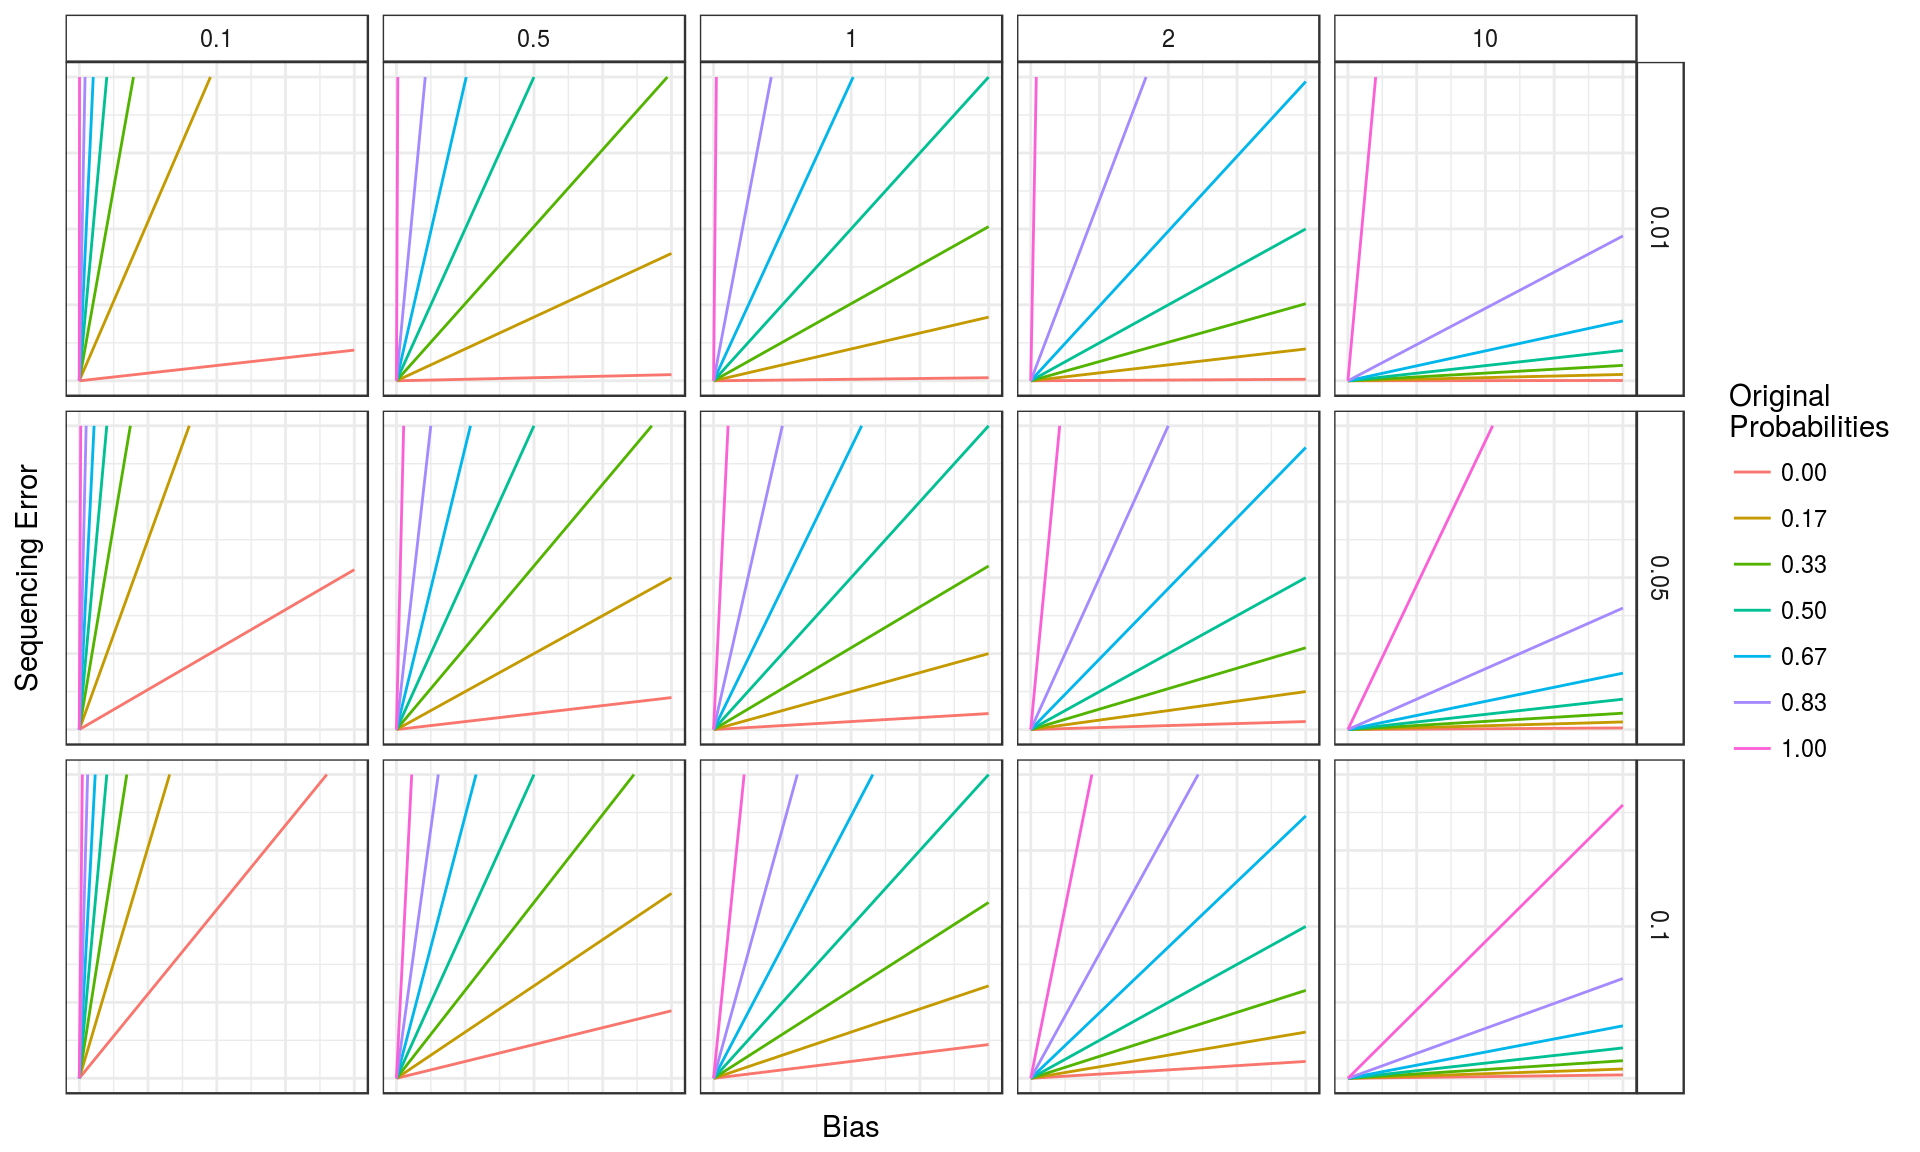
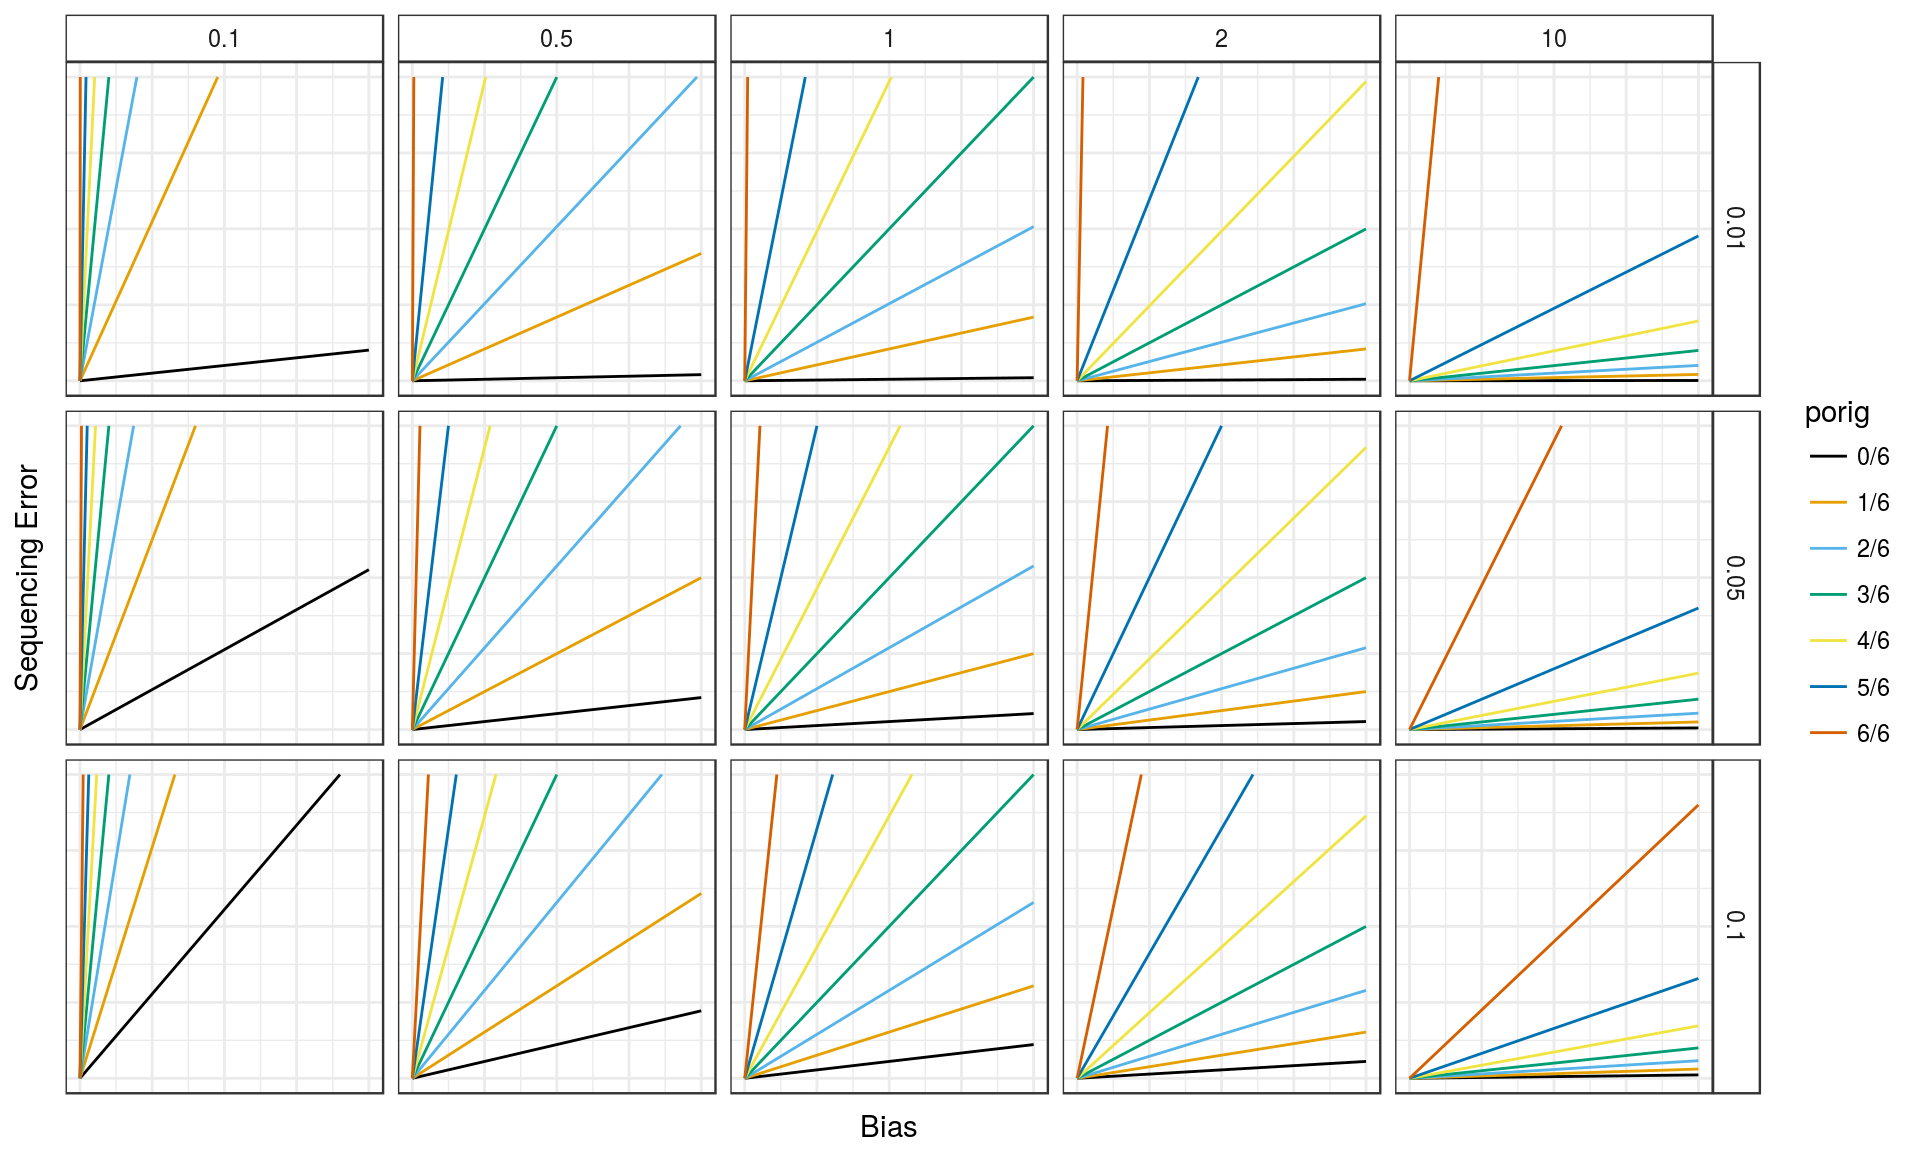
colorblind safe probability lines

diff --git a/docs/prob_lines.html b/docs/prob_lines.html
@@ -329,7 +329,7 @@ div.tocify {
 ploidy &lt;- 6
 bias_vec &lt;- c(0.1, 0.5, 1, 2, 10)
 seq_error_vec &lt;- c(0.01, 0.05, 0.1)
-porig &lt;- as.factor(format(0:ploidy / ploidy, digits = 2))
+porig &lt;- as.factor(paste0(0:ploidy, &quot;/&quot;, ploidy))
 
   for (bindex in 1:length(bias_vec)) {
       bias &lt;- bias_vec[bindex]
@@ -365,8 +365,11 @@ porig &lt;- as.factor(format(0:ploidy / ploidy, digits = 2))
     facet_grid(seq_error ~ bias) +
     xlab(&quot;Bias&quot;) +
     ylab(&quot;Sequencing Error&quot;) +
-    scale_color_discrete(name = &quot;Original\nProbabilities&quot;)
-print(pl)</code></pre>
+    scale_color_discrete(name = &quot;Original\nProbabilities&quot;) +
+    ggthemes::scale_color_colorblind()</code></pre>
+<pre><code>## Scale for &#39;colour&#39; is already present. Adding another scale for
+## &#39;colour&#39;, which will replace the existing scale.</code></pre>
+<pre class="r"><code>print(pl)</code></pre>
 <p><img src="prob_lines_files/figure-html/unnamed-chunk-1-1.png" width="960" /></p>
 <pre class="r"><code>pdf(file = &quot;../output/prob_plots.pdf&quot;, family = &quot;Times&quot;,
     colormodel = &quot;cmyk&quot;, width = 6, height = 3)
@@ -395,17 +398,17 @@ dev.off()</code></pre>
 ## [5] tidyr_0.6.1     tibble_1.2      ggplot2_2.2.1   tidyverse_1.1.1
 ## 
 ## loaded via a namespace (and not attached):
-##  [1] Rcpp_0.12.10     plyr_1.8.4       forcats_0.2.0    tools_3.3.2     
+##  [1] Rcpp_0.12.11     plyr_1.8.4       forcats_0.2.0    tools_3.3.2     
 ##  [5] digest_0.6.12    jsonlite_1.3     lubridate_1.6.0  evaluate_0.10   
 ##  [9] nlme_3.1-131     gtable_0.2.0     lattice_0.20-34  psych_1.6.12    
 ## [13] DBI_0.6          yaml_2.1.14      parallel_3.3.2   haven_1.0.0     
 ## [17] xml2_1.1.1       stringr_1.2.0    httr_1.2.1       knitr_1.15.1    
 ## [21] hms_0.3          rprojroot_1.2    grid_3.3.2       R6_2.2.0        
 ## [25] readxl_0.1.1     foreign_0.8-67   rmarkdown_1.3    modelr_0.1.0    
-## [29] reshape2_1.4.2   magrittr_1.5     backports_1.0.5  scales_0.4.1    
-## [33] htmltools_0.3.5  rvest_0.3.2      assertthat_0.2.0 mnormt_1.5-5    
-## [37] colorspace_1.3-2 labeling_0.3     stringi_1.1.2    lazyeval_0.2.0  
-## [41] munsell_0.4.3    broom_0.4.2</code></pre>
+## [29] reshape2_1.4.2   magrittr_1.5     ggthemes_3.4.0   backports_1.0.5 
+## [33] scales_0.4.1     htmltools_0.3.5  rvest_0.3.2      assertthat_0.2.0
+## [37] mnormt_1.5-5     colorspace_1.3-2 labeling_0.3     stringi_1.1.2   
+## [41] lazyeval_0.2.0   munsell_0.4.3    broom_0.4.2</code></pre>
 </div>
 
 <hr>
